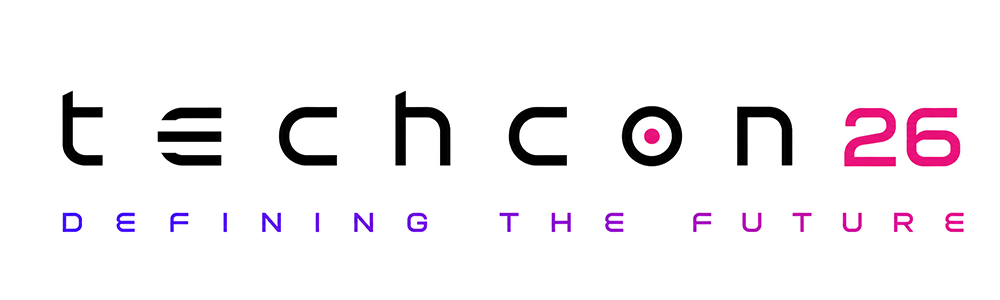
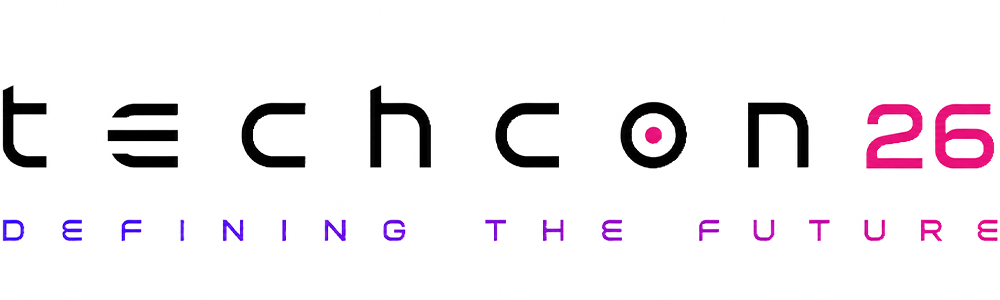
Refine Loader and Hero UI

diff --git a/src/components/Loader.tsx b/src/components/Loader.tsx
@@ -90,10 +90,6 @@ export default function Loader({ onComplete }: LoaderProps) {
         {/* Text Details */}
         <div className="text-center select-none">
           <div className="mt-8 flex flex-col items-center">
-            <span className="font-mono text-xl font-medium text-slate-800 tabular-nums">
-              {progress}%
-            </span>
-            
             {/* Custom high tech progress track */}
             <div className="w-48 h-[2px] bg-slate-100 rounded-full mt-3 overflow-hidden relative">
               <motion.div 
@@ -111,8 +107,8 @@ export default function Loader({ onComplete }: LoaderProps) {
             animate={{ opacity: 0.6 }}
             transition={{ delay: 0.4 }}
           >
-            <p className="text-[11px] text-slate-400 font-sans tracking-wide uppercase">
-              organized by <span className="text-slate-700 font-bold font-['Jura'] text-[14px]">msf TechFed</span>
+            <p className="text-[10px] text-slate-400 font-sans tracking-wide uppercase">
+              organized by <span className="text-slate-700 font-bold font-['Jura'] text-[11px] lowercase">msf techfed</span>
             </p>
           </motion.div>
         </div>

diff --git a/src/components/Hero.tsx b/src/components/Hero.tsx
@@ -69,9 +69,9 @@ export default function Hero({ onOpenRegister, onExploreEvent }: HeroProps) {
             initial={{ opacity: 0, y: 20 }}
             animate={{ opacity: 1, y: 0 }}
             transition={{ duration: 0.8, delay: 0.1 }}
-            className="flex flex-col mb-6 items-center lg:items-start"
+            className="flex flex-col mb-6 items-center w-full"
           >
-            <div className="flex justify-center lg:justify-start w-full max-w-[400px]">
+            <div className="flex justify-center w-full max-w-[280px] sm:max-w-[400px]">
               <img 
                 src="/hero-typography.png" 
                 alt="TECHCON 26" 